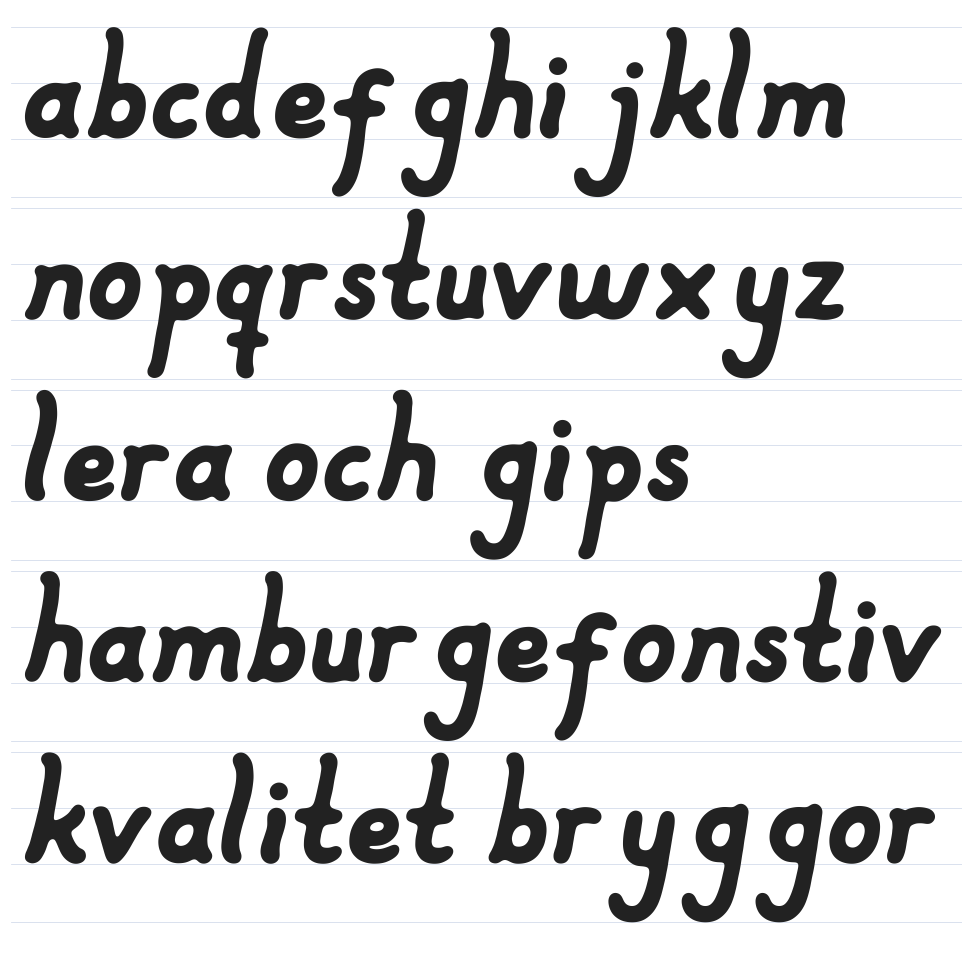
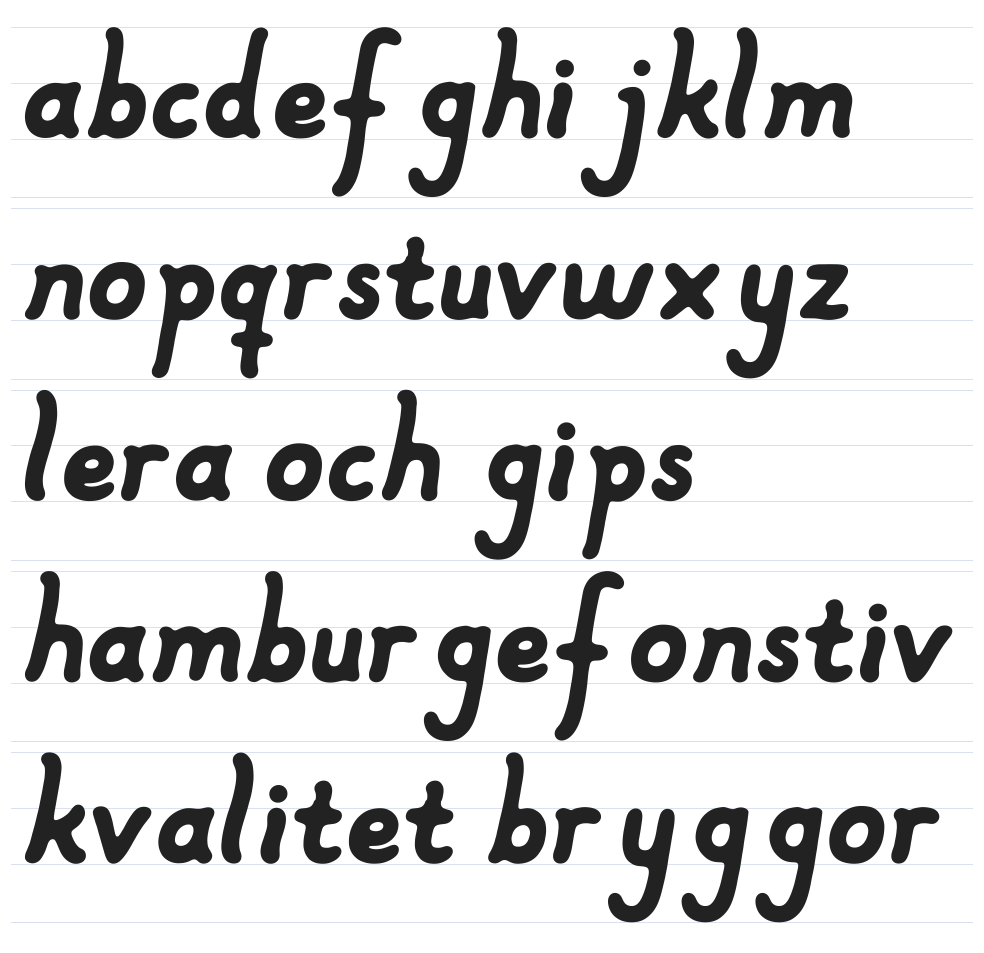
Finputsa typsnittet enligt reglerna
f:s topp når uppstaplarnas höjd, t kortas till 3,0, prickarna på i och
j får samma höjd, y och z hamnar på x-höjden, g:s öra sänks och o görs
bredare utan tjockare linje. Sträckning sker längs lutningen så att
staplarna behåller sin vinkel.

Claude-Session: https://claude.ai/code/session_01G3Fa1qrTuHzte3kfXkaDtX

diff --git a/bokstaver/finputs.py b/bokstaver/finputs.py
@@ -1,0 +1,115 @@
+"""Finputs enligt typsnittsreglerna.
+
+1. f: stammen mellan tvärstrecket och kroken förlängs så att toppen når
+   uppstaplarnas höjd (UPP). Kroken flyttas oförändrad.
+2. t: stammen ovanför tvärstrecket kortas så att toppen hamnar på T_HOJD.
+3. Prickarna på i och j flyttas till samma höjd.
+4. y och z ställs in så att toppen ligger exakt på x-höjden; g:s öra sänks.
+5. o görs ungefär lika brett som n utan att linjen blir tjockare: sidorna
+   flyttas utåt, så att bara hålet blir bredare.
+
+Förlängning/förkortning görs längs bokstavens lutning (LUTNING grader), inte
+rakt upp, så att en sträckt stapel behåller sin vinkel. Sist görs släppet i
+hålen och bokstäverna lagas om något blivit otätt.
+
+    python3 finputs.py slutlig
+"""
+import os
+import sys
+import numpy as np
+import trimesh
+
+from justera import ramp, integral, slapp_i_hal, UPP, XHOJD
+from gemensam_sving import laga
+
+LUTNING = float(os.environ.get("LUTNING", 10.0))
+K = np.tan(np.radians(LUTNING))
+T_HOJD = 3.0
+
+
+def langs_lutning(m, bas, a, b, delta, mjuk=0.12):
+    """Sträck (delta > 0) eller korta (delta < 0) bandet a–b (över baslinjen)
+    längs lutningen; allt ovanför bandet flyttas med oförändrat."""
+    v = m.vertices.copy()
+    y = v[:, 1] - bas
+    w = lambda t: ramp(t, a, a + mjuk) * ramp(t, b, b - mjuk)
+    langd = integral(w, np.array([b]), a)[0]
+    D = delta / langd * integral(w, y, a)
+    v[:, 0] += K * D
+    v[:, 1] += D
+    return trimesh.Trimesh(v, m.faces, process=False)
+
+
+def flytta_langs_lutning(m, delta):
+    v = m.vertices.copy()
+    v[:, 0] += K * delta
+    v[:, 1] += delta
+    return trimesh.Trimesh(v, m.faces, process=False)
+
+
+def spara(m, fil, hal=True):
+    m = laga(m)
+    if hal:
+        m, _ = slapp_i_hal(m)
+        m = laga(m)
+    m.export(fil)
+    return m
+
+
+def main():
+    mapp = sys.argv[1]
+    las = lambda n: trimesh.load(os.path.join(mapp, f"{n}.stl"))
+    fil = lambda n: os.path.join(mapp, f"{n}.stl")
+
+    # 1. f
+    f = las("f"); bas = -20.0
+    d = UPP - (f.bounds[1, 1] - bas)
+    f = spara(langs_lutning(f, bas, 1.45, 1.85, d), fil("f"), hal=False)
+    print(f"f: topp {f.bounds[1, 1] - bas:.2f} (förlängd {d:+.2f})")
+
+    # 2. t
+    for n, bas in (("t1", -20.04), ("t2", -20.05)):
+        t = las(n)
+        d = T_HOJD - (t.bounds[1, 1] - bas)
+        t = spara(langs_lutning(t, bas, 2.2, 3.4, d), fil(n), hal=False)
+        print(f"{n}: topp {t.bounds[1, 1] - bas:.2f} (kortad {d:+.2f})")
+
+    # 3. prickar på samma höjd (medel av i och j)
+    pi, pj = las("i-prick"), las("j-prick")
+    topp_i, topp_j = pi.bounds[1, 1] - (-19.95), pj.bounds[1, 1] - 0.0
+    mal = (topp_i + topp_j) / 2
+    for n, m, topp in (("i-prick", pi, topp_i), ("j-prick", pj, topp_j)):
+        m = spara(flytta_langs_lutning(m, mal - topp), fil(n), hal=False)
+        print(f"{n}: topp {topp:.2f} → {mal:.2f}")
+
+    # 4. y, z på x-höjden; g:s öra
+    y_ = las("y"); d = XHOJD - y_.bounds[1, 1]
+    y_ = spara(langs_lutning(y_, 0.0, 0.9, 1.7, d), fil("y"), hal=False)
+    print(f"y: topp {y_.bounds[1, 1]:.2f}")
+    z = las("z"); bas = z.bounds[0, 1]; d = XHOJD - (z.bounds[1, 1] - bas)
+    z = spara(langs_lutning(z, bas, 0.6, 1.5, d), fil("z"), hal=False)
+    print(f"z: topp {z.bounds[1, 1] - bas:.2f}")
+    g = las("g"); v = g.vertices.copy()
+    skal = 1.85, (2.03 - 1.85) / (g.bounds[1, 1] - 1.85)
+    over = v[:, 1] > skal[0]
+    hoger = ramp(v[:, 0], g.bounds[0, 0] + 1.5, g.bounds[0, 0] + 1.9)
+    ny_y = skal[0] + (v[:, 1] - skal[0]) * skal[1]
+    v[over, 1] += (ny_y[over] - v[over, 1]) * hoger[over]
+    g = spara(trimesh.Trimesh(v, g.faces, process=False), fil("g"))
+    print(f"g: örat {g.bounds[1, 1]:.2f}")
+
+    # 5. o bredare utan tjockare linje: sidorna flyttas utåt längs lutningen
+    o = las("o"); n = las("n")
+    bas = o.bounds[0, 1]
+    oka = 0.6 * (n.extents[0] - o.extents[0])  # runda bokstäver lite smalare än n
+    v = o.vertices.copy()
+    mitt_x = (o.bounds[0, 0] + o.bounds[1, 0]) / 2 + K * (v[:, 1] - (bas + XHOJD / 2))
+    # mjuk fördelning så att o:et förblir runt (ingen fyrkantig form)
+    bredd = 0.45
+    v[:, 0] += 0.5 * oka * np.tanh((v[:, 0] - mitt_x) / bredd) / np.tanh(0.9 / bredd)
+    o2 = spara(trimesh.Trimesh(v, o.faces, process=False), fil("o"))
+    print(f"o: bredd {o.extents[0]:.2f} → {o2.extents[0]:.2f} (n {n.extents[0]:.2f})")
+
+
+if __name__ == "__main__":
+    main()
